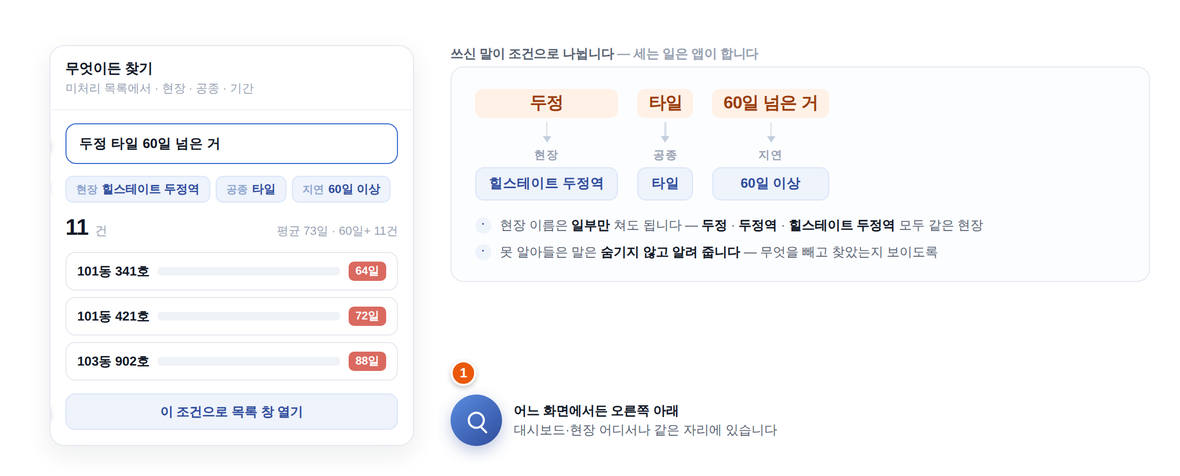
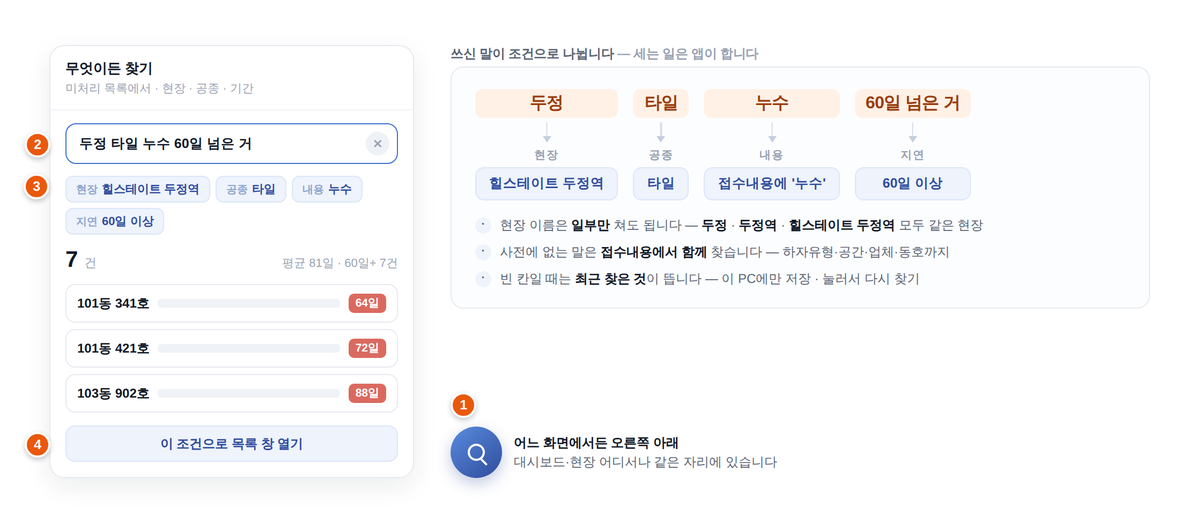
Add files via upload

diff --git a/docs/figs.html b/docs/figs.html
@@ -104,13 +104,15 @@ body{background:#fff;font-family:'Pretendard Variable',Pretendard,-apple-system,
 
 /* ── 5. 무엇이든 찾기 ── */
 .nq-wrap{display:flex;gap:34px;align-items:stretch;}
-.nq-card{width:340px;flex:0 0 340px;border:1px solid var(--line);border-radius:14px;background:#fff;overflow:hidden;
-  box-shadow:0 8px 24px rgba(15,23,42,.08);}
+.nq-card{width:340px;flex:0 0 340px;border:1px solid var(--line);border-radius:14px;background:#fff;
+  box-shadow:0 8px 24px rgba(15,23,42,.08);}   /* overflow:hidden 금지 — 바깥 여백의 번호 배지가 잘린다 */
 .nq-h{padding:12px 14px;border-bottom:1px solid var(--line2);}
 .nq-h .t{font-size:13px;font-weight:800;}
 .nq-h .s{font-size:11px;color:var(--ink3);margin-top:2px;}
-.nq-q{margin:12px 14px 0;height:38px;border:1.5px solid var(--b600);border-radius:10px;
-  display:flex;align-items:center;padding:0 12px;font-size:12.5px;color:var(--ink);font-weight:600;}
+.nq-q{position:relative;margin:12px 14px 0;height:38px;border:1.5px solid var(--b600);border-radius:10px;
+  display:flex;align-items:center;padding:0 34px 0 12px;font-size:12.5px;color:var(--ink);font-weight:600;}
+.nq-q em{position:absolute;right:7px;top:7px;width:22px;height:22px;border-radius:50%;background:#EEF1F5;
+  display:flex;align-items:center;justify-content:center;font-style:normal;font-size:11px;color:var(--ink3);font-weight:700;}
 .nq-cs{display:flex;gap:5px;flex-wrap:wrap;padding:11px 14px 0;}
 .nq-c{border:1px solid var(--b100);background:var(--b50);color:var(--b800);border-radius:7px;
   padding:4px 9px;font-size:11px;font-weight:700;}
@@ -132,7 +134,7 @@ body{background:#fff;font-family:'Pretendard Variable',Pretendard,-apple-system,
 .nq-cap{font-size:12px;font-weight:800;color:var(--ink2);letter-spacing:-.01em;margin-bottom:3px;}
 .nq-cap span{color:var(--ink3);font-weight:600;}
 .nq-flow{border:1px solid var(--line);border-radius:12px;background:#FCFDFE;padding:20px 22px 18px;}
-.nq-grid{display:grid;grid-template-columns:auto auto auto;gap:0 18px;justify-content:start;}
+.nq-grid{display:grid;grid-template-columns:auto auto auto auto;gap:0 14px;justify-content:start;}
 .nq-tok{font-size:16px;font-weight:800;letter-spacing:-.02em;text-align:center;padding:3px 10px;
   border-radius:7px;background:#FFF1E6;color:#9A3D0B;}
 .nq-arw{position:relative;height:28px;}
@@ -258,13 +260,14 @@ body{background:#fff;font-family:'Pretendard Variable',Pretendard,-apple-system,
   <div class="nq-wrap">
     <div class="nq-card">
       <div class="nq-h"><div class="t">무엇이든 찾기</div><div class="s">미처리 목록에서 · 현장 · 공종 · 기간</div></div>
-      <div class="nq-q" data-n="2" style="--bl:-39px;--bo:7px">두정 타일 60일 넘은 거</div>
+      <div class="nq-q" data-n="2" style="--bl:-39px;--bo:7px">두정 타일 누수 60일 넘은 거<em>✕</em></div>
       <div class="nq-cs" data-n="3" style="--bl:-25px;--bo:9px">
         <div class="nq-c"><s>현장</s>힐스테이트 두정역</div>
         <div class="nq-c"><s>공종</s>타일</div>
+        <div class="nq-c"><s>내용</s>누수</div>
         <div class="nq-c"><s>지연</s>60일 이상</div>
       </div>
-      <div class="nq-n"><b>11</b><span>건</span><span class="r">평균 73일 · 60일+ 11건</span></div>
+      <div class="nq-n"><b>7</b><span>건</span><span class="r">평균 81일 · 60일+ 7건</span></div>
       <div class="nq-hits">
         <div class="nq-hit"><span class="w">101동 341호</span><span class="g"></span><span class="d">64일</span></div>
         <div class="nq-hit"><span class="w">101동 421호</span><span class="g"></span><span class="d">72일</span></div>
@@ -277,15 +280,17 @@ body{background:#fff;font-family:'Pretendard Variable',Pretendard,-apple-system,
       <div class="nq-cap">쓰신 말이 조건으로 나뉩니다 <span>— 세는 일은 앱이 합니다</span></div>
       <div class="nq-flow">
         <div class="nq-grid">
-          <div class="nq-tok">두정</div><div class="nq-tok">타일</div><div class="nq-tok">60일 넘은 거</div>
-          <div class="nq-arw"></div><div class="nq-arw"></div><div class="nq-arw"></div>
+          <div class="nq-tok">두정</div><div class="nq-tok">타일</div><div class="nq-tok">누수</div><div class="nq-tok">60일 넘은 거</div>
+          <div class="nq-arw"></div><div class="nq-arw"></div><div class="nq-arw"></div><div class="nq-arw"></div>
           <div class="nq-fld"><div class="k">현장</div><div class="v">힐스테이트 두정역</div></div>
           <div class="nq-fld"><div class="k">공종</div><div class="v">타일</div></div>
+          <div class="nq-fld"><div class="k">내용</div><div class="v">접수내용에 '누수'</div></div>
           <div class="nq-fld"><div class="k">지연</div><div class="v">60일 이상</div></div>
         </div>
         <div class="nq-notes">
           <div class="nq-note"><i>·</i><span>현장 이름은 <b>일부만</b> 쳐도 됩니다 — <b>두정</b> · <b>두정역</b> · <b>힐스테이트 두정역</b> 모두 같은 현장</span></div>
-          <div class="nq-note"><i>·</i><span>못 알아들은 말은 <b>숨기지 않고 알려 줍니다</b> — 무엇을 빼고 찾았는지 보이도록</span></div>
+          <div class="nq-note"><i>·</i><span>사전에 없는 말은 <b>접수내용에서 함께</b> 찾습니다 — 하자유형·공간·업체·동호까지</span></div>
+          <div class="nq-note"><i>·</i><span>빈 칸일 때는 <b>최근 찾은 것</b>이 뜹니다 — 이 PC에만 저장 · 눌러서 다시 찾기</span></div>
         </div>
       </div>
       <div class="nq-fabrow">

diff --git a/app/app-core.js b/app/app-core.js
@@ -151,7 +151,7 @@ function applyTheme(dark){
 // ── 빌드 식별자 ──
 //   화면에 뜬 것이 '어느 배포본'인지 알 수 있어야 진단이 싸진다(캐시된 옛 버전 vs 실제 버그 구분).
 //   배포 때마다 이 값을 올린다 — 안 올리면 CI(tests/build.mjs)가 실패한다.
-const BUILD='2026-07-26.4';
+const BUILD='2026-07-26.5';
 
 // ── 오류 기록 ──
 //   catch가 콘솔에만 남기면 뷰어(팀원)는 고장을 영영 모른다.
@@ -231,9 +231,10 @@ function nlqParse(q,dict){
   D.siteKeys.forEach(kv=>eat(rx(kv[0]),()=>{ R.site=R.site||kv[1]; }));
   // 여러 현장이 함께 쓰는 말은 조건이 되지 못한다 — 못 알아들은 말로 보고하지 말고 따로 알린다
   D.siteAmbig.concat(D.tradeAmbig).forEach(v=>eat(rx(v),()=>{ R.ambig=v; }));
-  const unknown=s.split(/[\s,·]+/).map(w=>w.replace(NLQ_JOSA,'').trim()).filter(w=>w&&!NLQ_NOISE.test(w));
-  R.empty=!(R.site||R.trades.length||R.delay||R.vac||R.shop||R.dong||R.ho);
-  return {R,unknown};
+  // 남은 말은 버리지 않고 '본문 검색어'로 쓴다 — 접수내용·하자유형·공간·업체까지 훑는다
+  R.text=s.split(/[\s,·]+/).map(w=>w.replace(NLQ_JOSA,'').trim()).filter(w=>w&&!NLQ_NOISE.test(w));
+  R.empty=!(R.site||R.trades.length||R.delay||R.vac||R.shop||R.dong||R.ho||R.text.length);
+  return {R,unknown:R.text};
 }
 // 해석 결과를 사람이 읽는 조건 칩으로
 function nlqChips(R){
@@ -245,6 +246,7 @@ function nlqChips(R){
   if(R.shop)c.push(['구분','상가']);
   if(R.dong)c.push(['동',R.dong+'동']);
   if(R.ho)c.push(['호',R.ho+'호']);
+  if(R.text&&R.text.length)c.push(['내용',R.text.join(' ')]);
   if(R.sort)c.push(['정렬',R.sort==='old'?'오래된 순':'최근 순']);
   return c;
 }
@@ -260,12 +262,28 @@ function nlqApply(rows,R){
     if(R.delay){ const d=Number(r.delayDays)||0;
       if(R.delay.op==='gte'&&!(d>=R.delay.n))return false;
       if(R.delay.op==='lt'&&!(d<R.delay.n))return false; }
+    if(R.text&&R.text.length){
+      const hay=[r.siteName,r.building,r.unit,r.space,r.trade,r.defectType,r.receiptContent,
+                 r.defectClass,r.saleStatus,r.repairParty,r.contractor,r.repairContractor,r.receiptDate]
+                .filter(Boolean).join(' ').toLowerCase();
+      for(const w of R.text){ if(hay.indexOf(w.toLowerCase())<0)return false; }   // 모두 포함(AND)
+    }
     return true;
   });
   if(R.sort==='old')out.sort((a,b)=>(Number(b.delayDays)||0)-(Number(a.delayDays)||0));
   else if(R.sort==='new')out.sort((a,b)=>(Number(a.delayDays)||0)-(Number(b.delayDays)||0));
   return out;
 }
+
+// 최근 검색 기록 — 이 PC의 브라우저에만 남는다(팀 공유 아님).
+const NLQ_HKEY='nlqHist', NLQ_HMAX=8;
+function nlqHist(){ try{ const a=JSON.parse(localStorage.getItem(NLQ_HKEY)||'[]'); return Array.isArray(a)?a.slice(0,NLQ_HMAX):[]; }catch(_){ return []; } }
+function nlqHistAdd(q){
+  q=String(q||'').trim(); if(q.length<2)return;
+  try{ const a=nlqHist().filter(x=>x!==q); a.unshift(q); localStorage.setItem(NLQ_HKEY,JSON.stringify(a.slice(0,NLQ_HMAX))); }catch(_){}
+}
+function nlqHistDel(q){ try{ localStorage.setItem(NLQ_HKEY,JSON.stringify(nlqHist().filter(x=>x!==q))); }catch(_){} }
+function nlqHistClear(){ try{ localStorage.removeItem(NLQ_HKEY); }catch(_){} }
 
 // ── 계층 훅 ──
 //   아래 계층(core·data)이 위 계층(view·boot)의 함수를 직접 부르면 의존 방향이 뒤집힌다.

diff --git a/index.html b/index.html
@@ -160,10 +160,30 @@ body.sb-collapsed .sb-theme{flex-direction:column;padding:4px;}
   cursor:pointer;display:inline-flex;align-items:center;justify-content:center;transition:background var(--tr),color var(--tr);}
 .nq-cl:hover{background:var(--fill);color:var(--lbl);}
 .nq-cl .icn{width:15px;height:15px;}
-.nq-in{padding:12px 14px 0;}
-.nq-in input{width:100%;height:42px;border:1.5px solid var(--sep);border-radius:11px;padding:0 13px;
+.nq-in{padding:12px 14px 0;position:relative;}
+.nq-in input{width:100%;height:42px;border:1.5px solid var(--sep);border-radius:11px;padding:0 38px 0 13px;
   font:inherit;font-size:14px;color:var(--lbl);background:var(--bg2);transition:border-color var(--tr);}
 .nq-in input:focus{outline:none;border-color:var(--b600);}
+.nq-x{position:absolute;right:22px;top:20px;width:26px;height:26px;border:0;border-radius:50%;
+  background:var(--fill);color:var(--lbl2);cursor:pointer;display:inline-flex;align-items:center;justify-content:center;
+  transition:background var(--tr),color var(--tr);}
+.nq-x:hover{background:var(--fill2);color:var(--lbl);}
+.nq-x .icn{width:13px;height:13px;}
+.nq-hist{display:flex;flex-direction:column;gap:2px;}
+.nq-hh{display:flex;align-items:center;font-size:11px;font-weight:800;color:var(--lbl3);letter-spacing:.03em;
+  padding:2px 2px 6px;}
+.nq-hh button{margin-left:auto;border:0;background:transparent;color:var(--lbl3);font:inherit;font-size:11px;
+  font-weight:700;cursor:pointer;padding:2px 4px;border-radius:6px;}
+.nq-hh button:hover{background:var(--fill);color:var(--lbl2);}
+.nq-hi{display:flex;align-items:center;gap:6px;border-radius:9px;padding:8px 8px 8px 10px;cursor:pointer;
+  font-size:12.5px;color:var(--lbl);transition:background var(--tr);}
+.nq-hi:hover{background:var(--surf2);}
+.nq-hi .t{flex:1;min-width:0;overflow:hidden;text-overflow:ellipsis;white-space:nowrap;}
+.nq-hi .d{flex:0 0 auto;width:22px;height:22px;border:0;border-radius:6px;background:transparent;color:var(--lbl3);
+  cursor:pointer;display:inline-flex;align-items:center;justify-content:center;opacity:0;transition:opacity var(--tr),background var(--tr);}
+.nq-hi:hover .d{opacity:1;}
+.nq-hi .d:hover{background:var(--fill);color:var(--lbl);}
+.nq-hi .d .icn{width:11px;height:11px;}
 .nq-body{flex:1;overflow-y:auto;padding:12px 14px 14px;}
 .nq-chips{display:flex;flex-wrap:wrap;gap:5px;margin-bottom:10px;}
 .nq-chip{border-radius:8px;padding:4px 9px;font-size:11.5px;font-weight:600;
@@ -1803,7 +1823,7 @@ th[data-act]:focus-visible{outline:2px solid #3E71D2;outline-offset:-2px;}
       <div><div class="nq-tt">무엇이든 찾기</div><div class="nq-sb">미처리 목록에서 · 현장 · 공종 · 기간</div></div>
       <button class="nq-cl" data-act="nlq.close" aria-label="닫기"><svg class="icn" aria-hidden="true"><use href="#i-close"></use></svg></button>
     </div>
-    <div class="nq-in"><input id="nqQ" data-act="nlq.q" placeholder="예: 신용 도배 60일 넘은 거" autocomplete="off" aria-label="찾을 내용"></div>
+    <div class="nq-in"><input id="nqQ" data-act="nlq.q" autocomplete="off" aria-label="찾을 내용"><button class="nq-x" id="nqX" data-act="nlq.clear" aria-label="지우기" hidden><svg class="icn" aria-hidden="true"><use href="#i-close"></use></svg></button></div>
     <div class="nq-body" id="nqBody"></div>
     <div class="nq-ft" id="nqFt" hidden><button class="btn bo bsm" data-act="nlq.list">이 조건으로 목록 창 열기</button></div>
   </div>

diff --git a/app/app-view.js b/app/app-view.js
@@ -1208,8 +1208,17 @@ function nlqRender(){
   const body=document.getElementById('nqBody'), ft=document.getElementById('nqFt');
   if(!body)return;
   const q=(document.getElementById('nqQ')||{}).value||'';
-  const HINT='<div class="nq-blank">현장·공종·기간을 섞어서 물어보세요<br><b>신용 도배 60일 넘은 거</b><br><b>두정 공가세대</b><br><b>익산 101동</b></div>';
-  if(!q.trim()){ if(ft)ft.hidden=true; body.innerHTML=HINT; window.__NLQ=null; return; }
+  {const x=document.getElementById('nqX');if(x)x.hidden=!q.length;}
+  const HIST=()=>{
+    const h=nlqHist();
+    if(!h.length)return '<div class="nq-blank">현장·공종·기간·내용을 섞어서 물어보세요</div>';
+    return '<div class="nq-hist"><div class="nq-hh">최근 찾은 것'+
+      '<button data-act="nlq.histClear">모두 지우기</button></div>'+
+      h.map(x=>`<div class="nq-hi" data-act="nlq.histUse" data-q="${esc(x)}"><span class="t">${esc(x)}</span>`+
+        `<button class="d" data-act="nlq.histDel" data-q="${esc(x)}" aria-label="지우기">`+
+        `<svg class="icn" aria-hidden="true"><use href="#i-close"></use></svg></button></div>`).join('')+'</div>';
+  };
+  if(!q.trim()){ if(ft)ft.hidden=true; body.innerHTML=HIST(); window.__NLQ=null; return; }
   const {R,unknown}=nlqParse(q);
   let h='';
   const cs=nlqChips(R);
@@ -1218,8 +1227,8 @@ function nlqRender(){
     : '<span class="nq-chip no">알아들은 조건이 없습니다</span>')+'</div>';
   if(R.doneAsked) h+='<div class="nq-miss">이 검색은 <b>미처리 목록</b>만 봅니다 · 처리완료 건은 나오지 않습니다</div>';
   if(R.ambig&&!R.site) h+=`<div class="nq-miss"><b>${esc(R.ambig)}</b> 은(는) 여러 현장이 함께 쓰는 이름입니다 · 현장을 구분할 수 있게 더 적어 주세요</div>`;
-  if(unknown.length) h+=`<div class="nq-miss">무시한 말 — <b>${unknown.map(esc).join('</b>, <b>')}</b></div>`;
-  if(R.empty){ if(ft)ft.hidden=true; body.innerHTML=h+HINT; window.__NLQ=null; return; }
+  if(unknown.length) h+=`<div class="nq-miss">접수내용 등 <b>본문</b>에서 함께 찾는 말 — <b>${unknown.map(esc).join('</b>, <b>')}</b></div>`;
+  if(R.empty){ if(ft)ft.hidden=true; body.innerHTML=h+HIST(); window.__NLQ=null; return; }
   const rows=nlqApply(nlqRows(),R), show=rows.slice(0,20);
   const avg=rows.length?Math.round(rows.reduce((a,r)=>a+(Number(r.delayDays)||0),0)/rows.length):0;
   const d60=rows.filter(r=>(Number(r.delayDays)||0)>=60).length;
@@ -1237,5 +1246,5 @@ function nlqRender(){
   } else h+='<div class="nq-blank">조건에 맞는 건이 없습니다</div>';
   body.innerHTML=h;
   if(ft)ft.hidden=!rows.length;
-  window.__NLQ={R:R,n:rows.length};
+  window.__NLQ={R:R,n:rows.length,q:q};
 }

diff --git a/app/app-boot.js b/app/app-boot.js
@@ -897,6 +897,10 @@ function bindGlobalUi(){
   document.addEventListener('keydown',e=>{
 
     // 찾기 패널은 입력 중에도 Esc로 닫혀야 하므로 shEditing() 앞에서 처리한다
+    if(e.key==='Enter'&&e.target&&e.target.id==='nqQ'){
+      const N=window.__NLQ; if(N&&N.n)nlqHistAdd(N.q);
+      e.target.blur(); return;                     // 기록에 남기고 결과에 집중
+    }
     if(e.key==='Escape'){const np=document.getElementById('nqPanel');
       if(np&&np.classList.contains('on')){e.preventDefault();nlqOpen(false);return;}}
 
@@ -1156,7 +1160,11 @@ registerActions('click', {
   'theme.toggle':()=>applyTheme(!isDark()),
   'nlq.toggle':()=>nlqOpen(!document.getElementById('nqPanel').classList.contains('on')),
   'nlq.close':()=>nlqOpen(false),
-  'nlq.list':()=>{const N=window.__NLQ;if(!N)return;nlqOpen(false);
+  'nlq.clear':()=>{const q=document.getElementById('nqQ');if(q){q.value='';q.focus();}nlqRender();},
+  'nlq.histUse':(el)=>{const q=document.getElementById('nqQ');if(!q)return;q.value=el.dataset.q||'';q.focus();nlqRender();},
+  'nlq.histDel':(el)=>{nlqHistDel(el.dataset.q||'');nlqRender();},
+  'nlq.histClear':()=>{nlqHistClear();nlqRender();},
+  'nlq.list':()=>{const N=window.__NLQ;if(!N)return;nlqHistAdd(N.q);nlqOpen(false);
     const site=N.R.site?dashSites().find(s=>s.name===N.R.site):null;
     // 단일 현장으로 열면 그 현장 목록이라 siteName이 없다 → 현장 조건은 빼고 나머지만 넘긴다
     const spec=site?Object.assign({},N.R,{site:null}):N.R;

diff --git a/README.md b/README.md
@@ -111,13 +111,17 @@
 | | 무엇 |
 |---|---|
 | **1** | **찾기 버튼** — 어느 화면에서든 오른쪽 아래 같은 자리 |
-| **2** | **묻는 칸** — 현장·공종·기간을 섞어서 그대로 입력 |
-| **3** | **나뉜 조건** — 무엇으로 찾았는지 표시 · 못 알아들은 말은 따로 알림 |
+| **2** | **묻는 칸** — 현장·공종·기간·내용을 섞어서 그대로 입력 · 오른쪽 `✕`로 지움 |
+| **3** | **나뉜 조건** — 무엇으로 찾았는지 표시 · 사전에 없는 말은 접수내용에서 함께 찾음 |
 | **4** | **목록 창으로** — 같은 조건이 걸린 목록이 열려 정렬·피벗·엑셀 그대로 사용 |
 
 - 현장 이름은 **일부만 쳐도** 찾힘 — `힐스테이트 두정역` = `두정역` = `두정`
   - 여러 현장이 함께 쓰는 말(`힐스테이트`)은 어느 현장인지 못 정하므로 더 적어 달라고 안내
+- 사전에 없는 말은 **본문 검색어**로 씀 — 접수내용·하자유형·공간·업체·동호까지 훑음
+  - 예: `타일 누수` = 공종 타일 + 접수내용에 '누수' · 여러 낱말은 모두 포함된 건만
 - **미처리 목록에서만** 찾음 — 처리완료 건은 대상 아님
+- 빈 칸일 때는 **최근 찾은 것**이 뜸 — 눌러 다시 찾기 · 하나씩 또는 모두 지우기
+  - 이 PC의 브라우저에만 저장(팀 공유 아님) · 결과가 있는 검색만 기록
 - 외부 서비스를 쓰지 않음 — 조건은 규칙이 만들고 **숫자는 앱이 셈**
   - 화면의 다른 숫자와 항상 일치 · 인터넷 없이 열리는 스냅샷에서도 동작
 
